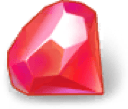
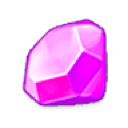
[Max] 웹 문서용 재화·도구 아이템 이미지 갱신

diff --git a/docs/js/rosewood-order-engine.js b/docs/js/rosewood-order-engine.js
@@ -91,7 +91,7 @@ const shapeOf = (code) => `rw-shape sh${chainInfo(code).seq % 12}${chainInfo(cod
       아트가 **다른 아이템 세트**를 그리고 있다는 뜻이고, 이름 표를 늦게 받아서가 아니다.
       → 칸은 다 찼지만 **그림 내용은 미해결**이다. 아트 쪽 확인이 필요하다
         (실루엣·단계 수·체인 길이는 맞아서 분포 검증에는 지장이 없다). */
-const SPRITE_CODES = new Set([101,102,103,104,105,106,107,108,109,110,111,201,202,203,204,205,206,207,208,209,210,211,212,213,214,301,302,303,304,305,306,307,401,402,403,404,405,406,407,408,409,410,411,501,502,503,504,505,506,507,508,509,510,601,602,603,604,605,701,702,703,704,705,706,707,708,709,710,711,801,802,803,804,805,806,807,808,809,810,811,812,813,814,815,901,902,903,904,905,906,907,1001,1002,1003,1004,1005,1006,1007,1008,1009,1010,1101,1102,1103,1104,1105,1106,1107,1201,1202,1203,1204,1205,1206,1207,1208,1209,1210,1211,1301,1302,1303,1304,1305,1306,1307,1308,1309,1310,1311,1312,1501,1502,1503,1504,1505,1506,1507,1508,1509,1510,1511,1601,1602,1603,1604,1605,1606,1607,1608,1609,1610,1611,1701,1702,1703,1704,1705,1706,1707,1801,1802,1803,1804,1805,1806,1807,1901,1902,1903,1904,1905,1906,1907,1908,1909,1910,2001,2002,2003,2004,2005,2006,2101,2102,2103,2104,2105,2106,2107,2108,2109,2110,2201,2301,2302,2303,2304,2305,2306,2307,2308,2309,2310,2401,2402,2403,2404,2405,2406,2501,2502,2601,2602,2701,2702,2703,2704,2705,2801,2802,2803,2804,2901,2902,2903,2904,2905,3001,3101,3102,3103]);
+const SPRITE_CODES = new Set([101,102,103,104,105,106,107,108,109,110,111,201,202,203,204,205,206,207,208,209,210,211,212,213,214,301,302,303,304,305,306,307,401,402,403,404,405,406,407,408,409,410,411,501,502,503,504,505,506,507,508,509,510,601,602,603,604,605,701,702,703,704,705,706,707,708,709,710,711,801,802,803,804,805,806,807,808,809,810,811,812,813,814,815,901,902,903,904,905,906,907,1001,1002,1003,1004,1005,1006,1007,1008,1009,1010,1101,1102,1103,1104,1105,1106,1107,1201,1202,1203,1204,1205,1206,1207,1208,1209,1210,1211,1301,1302,1303,1304,1305,1306,1307,1308,1309,1310,1311,1312,1501,1502,1503,1504,1505,1506,1507,1508,1509,1510,1511,1601,1602,1603,1604,1605,1606,1607,1608,1609,1610,1611,1701,1702,1703,1704,1705,1706,1707,1801,1802,1803,1804,1805,1806,1807,1901,1902,1903,1904,1905,1906,1907,1908,1909,1910,2001,2002,2003,2004,2005,2006,2101,2102,2103,2104,2105,2106,2107,2108,2109,2110,2201,2301,2302,2303,2304,2305,2306,2307,2308,2309,2310,2401,2402,2403,2404,2405,2406,2501,2502,2601,2602,2701,2702,2703,2704,2705,2801,2802,2803,2804,2901,2902,2903,2904,2905,3001,3101,3102,3103,90008,90009]);
 const spriteOf = (code) => (SPRITE_CODES.has(code) ? `img/items/${code}.png` : "");
 
 const lenOf = (code) => { const n = labelOf(code).length; return n <= 3 ? "" : n <= 5 ? " l5" : n <= 7 ? " l7" : " l9"; };
